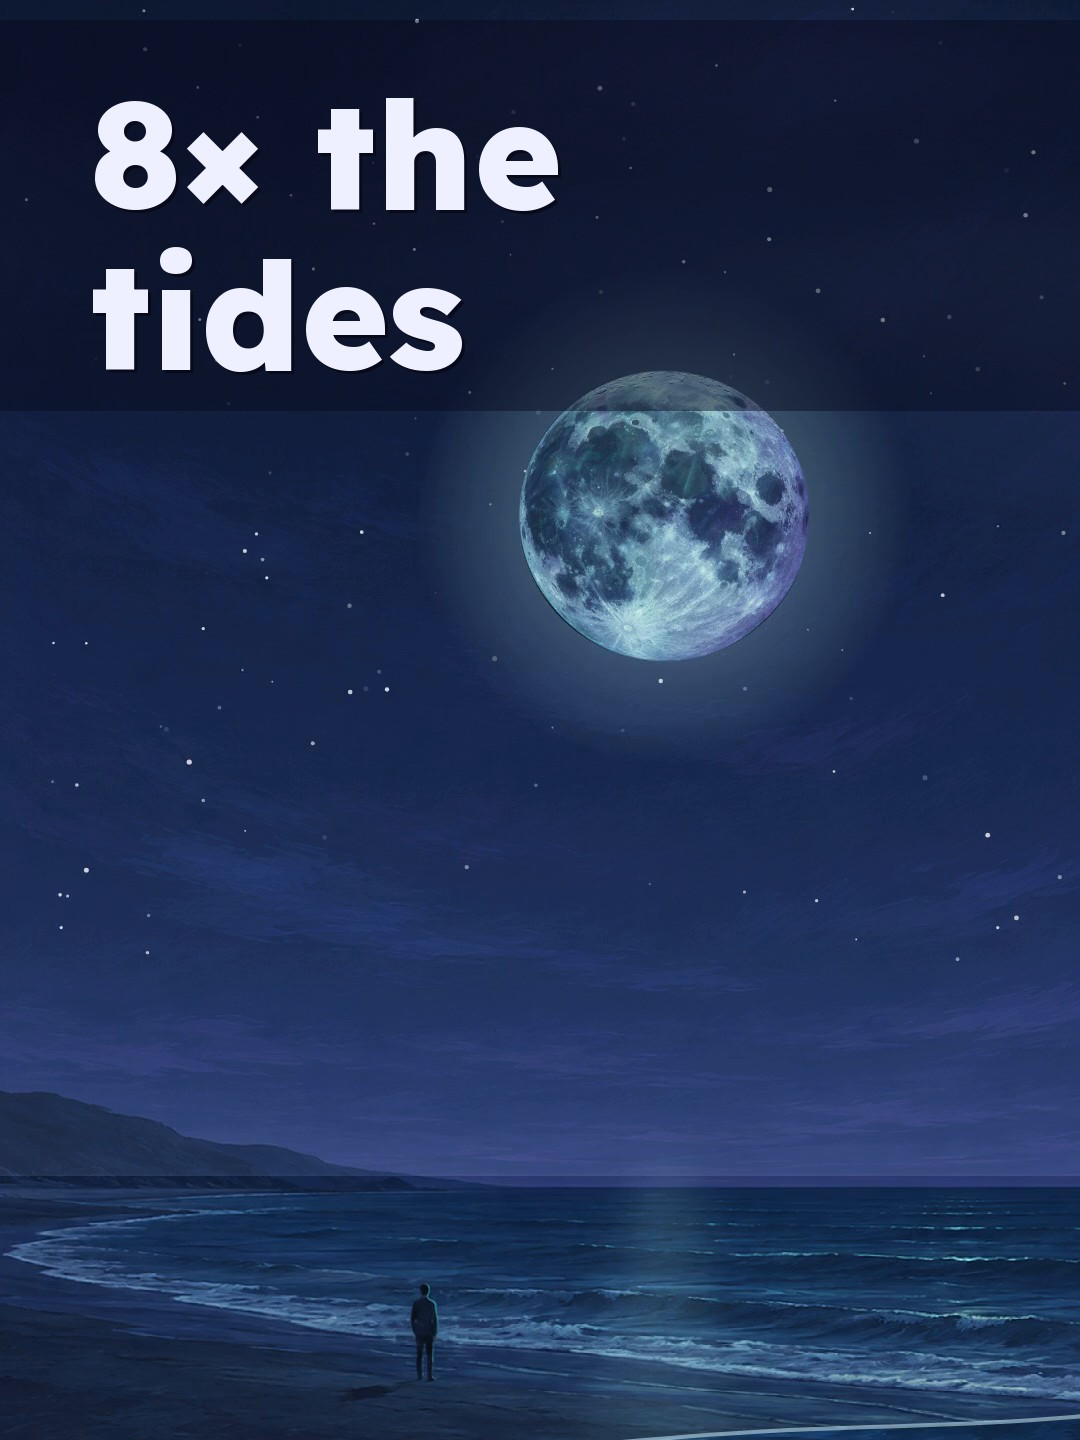
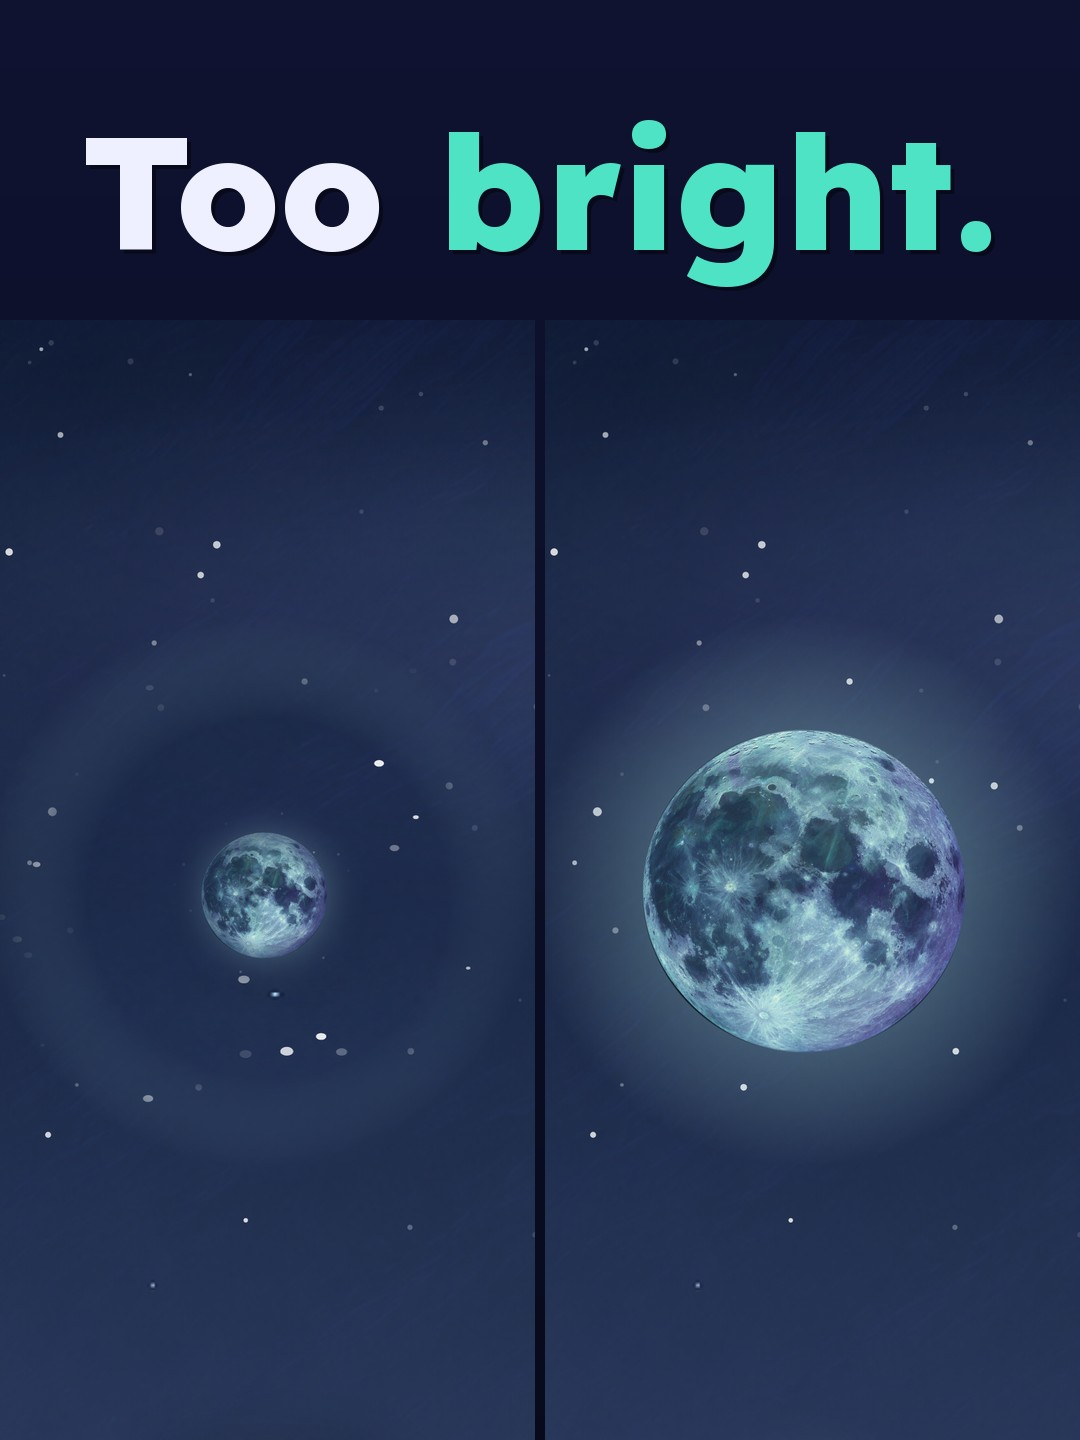
OO S3 Part 3 cover: side by side (today | 93,000 mi), "Too bright." (it had Part 2's "8x the tides", untrue at 150,000 km)
Claude-Session: https://claude.ai/code/session_0192s8Y6QVLPvpMXQUNPpnjp

diff --git a/films/channels/space/ep15/cover_p3.py b/films/channels/space/ep15/cover_p3.py
@@ -1,0 +1,59 @@
+"""One More Orbit S3 Part 3 cover: side by side (rotation device 3), today's Moon | the Moon at 150,000 km (93,000 mi),
+same sky, the closer Moon 2.56x wider (384,400/150,000) with a brighter path on the sea. Text: "Too bright." (the
+episode's opening line). Lexend 800, teal accent. usage: p3_cover.py <still 2160x2200 png> <Lexend-VF.ttf> <out dir>"""
+import sys
+from PIL import Image, ImageDraw, ImageFilter, ImageFont, ImageChops
+SRC, FONT, OUT = sys.argv[1:4]
+TEAL, WHITE, SHADOW = (79, 227, 198), (238, 240, 255), (8, 10, 28)
+CX, CY, R = 1195, 935, 250                     # the Moon disc in the still
+K = 384400 / 150000                             # how much wider the Part 3 Moon is than today's
+src = Image.open(SRC).convert("RGB"); W0, H0 = src.size
+
+def lex(size, w=800):
+    f = ImageFont.truetype(FONT, size)
+    try: f.set_variation_by_axes([w])
+    except Exception: pass
+    return f
+
+# today: remove the Moon and its glow (fill from the sky beside it, blurred edge), paste it back 1/K the size, dim its sea path
+G = int(R * 1.95)
+sky = src.crop((20, CY - G, CX - G - 40, CY + G)).resize((2 * G, 2 * G), Image.LANCZOS)   # the clear sky left of the Moon, same rows
+import numpy as np
+yy, xx = np.mgrid[-G:G, -G:G]; rr = np.hypot(xx, yy) / G
+mask = Image.fromarray((255 * np.clip((0.95 - rr) / 0.35, 0, 1)).astype("uint8"))   # soft radial: full inside 0.6G, gone by 0.95G
+ring = (rr > 0.6) & (rr < 0.95)                 # match the patch's colour to the sky it replaces, over the fade zone
+a_src = np.asarray(src.crop((CX - G, CY - G, CX + G, CY + G))).astype(float); a_sky = np.asarray(sky).astype(float)
+gain = np.median(a_src[rr > 0.97], 0) / np.maximum(np.median(a_sky[rr > 0.97], 0), 1)   # match at the outer edge only, so the glow goes away
+sky = Image.fromarray(np.clip(a_sky * gain, 0, 255).astype("uint8"))
+today = src.copy(); today.paste(sky, (CX - G, CY - G), mask)
+moon = src.crop((CX - G, CY - G, CX + G, CY + G)); g2 = int(2 * G / K)
+mm = Image.fromarray((255 * np.clip((0.9 - rr) / 0.55, 0, 1) ** 1.6).astype("uint8"))   # the small Moon with its glow fading out smoothly
+today.paste(moon.resize((g2, g2), Image.LANCZOS), (CX - g2 // 2, CY - g2 // 2), mm.resize((g2, g2), Image.LANCZOS))
+path = Image.new("L", (W0, H0), 0); ImageDraw.Draw(path).rectangle((CX - 170, 1850, CX + 170, H0), fill=255)
+path = path.filter(ImageFilter.GaussianBlur(60))
+today = Image.composite(ImageChops.multiply(today, Image.new("RGB", today.size, (150, 150, 165))), today, path)
+
+# the cover: night gradient, text band, two tall panels
+cv = Image.composite(Image.new("RGB", (1080, 1920), (7, 9, 24)), Image.new("RGB", (1080, 1920), (16, 20, 52)),
+                     Image.linear_gradient("L").resize((1080, 1920)))
+PT, PW, PH, GAP = 560, 535, 1360, 10
+cw = int(H0 * PW / PH)
+for i, img in enumerate((today, src)):
+    p = img.crop((CX - cw // 2, 0, CX + cw // 2, H0)).resize((PW, PH), Image.LANCZOS)
+    cv.paste(p, (i * (PW + GAP), PT))
+d = ImageDraw.Draw(cv)
+
+def words(txt, accent, f, x, y):
+    for w in txt.split():
+        col = TEAL if w.strip(".,?!").lower() == accent else WHITE
+        d.text((x + 4, y + 4), w, font=f, fill=SHADOW); d.text((x, y), w, font=f, fill=col); x += d.textlength(w + " ", font=f)
+
+f = lex(160); words("Too bright.", "bright", f, (1080 - d.textlength("Too bright.", font=f)) // 2, 330)
+lf = lex(54, 650)
+for i, lab in enumerate(("today", "93,000 mi")):
+    x = i * (PW + GAP) + 34; y = PT + PH - 110
+    d.text((x + 3, y + 3), lab, font=lf, fill=SHADOW); d.text((x, y), lab, font=lf, fill=WHITE)
+cv.save(f"{OUT}/one-more-orbit-s3-part3-cover.jpg", quality=92)
+cv.resize((480, 853), Image.LANCZOS).save(f"{OUT}/one-more-orbit-s3-part3-cover-480.jpg", quality=88)
+cv.crop((0, 240, 1080, 1680)).save(f"{OUT}/one-more-orbit-s3-part3-cover-grid-3x4.jpg", quality=90)
+print("ok")
